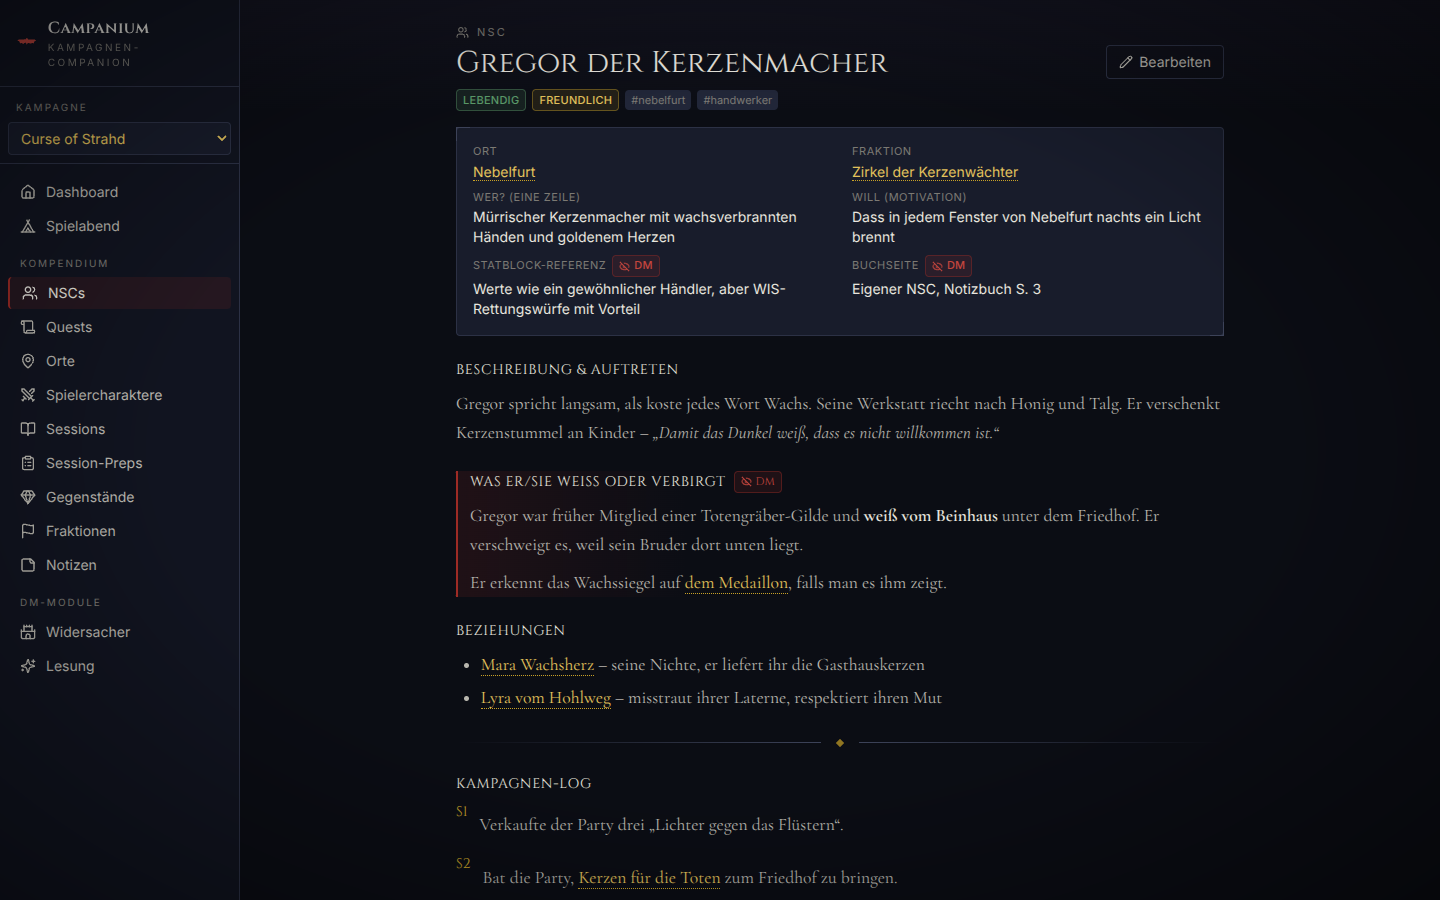
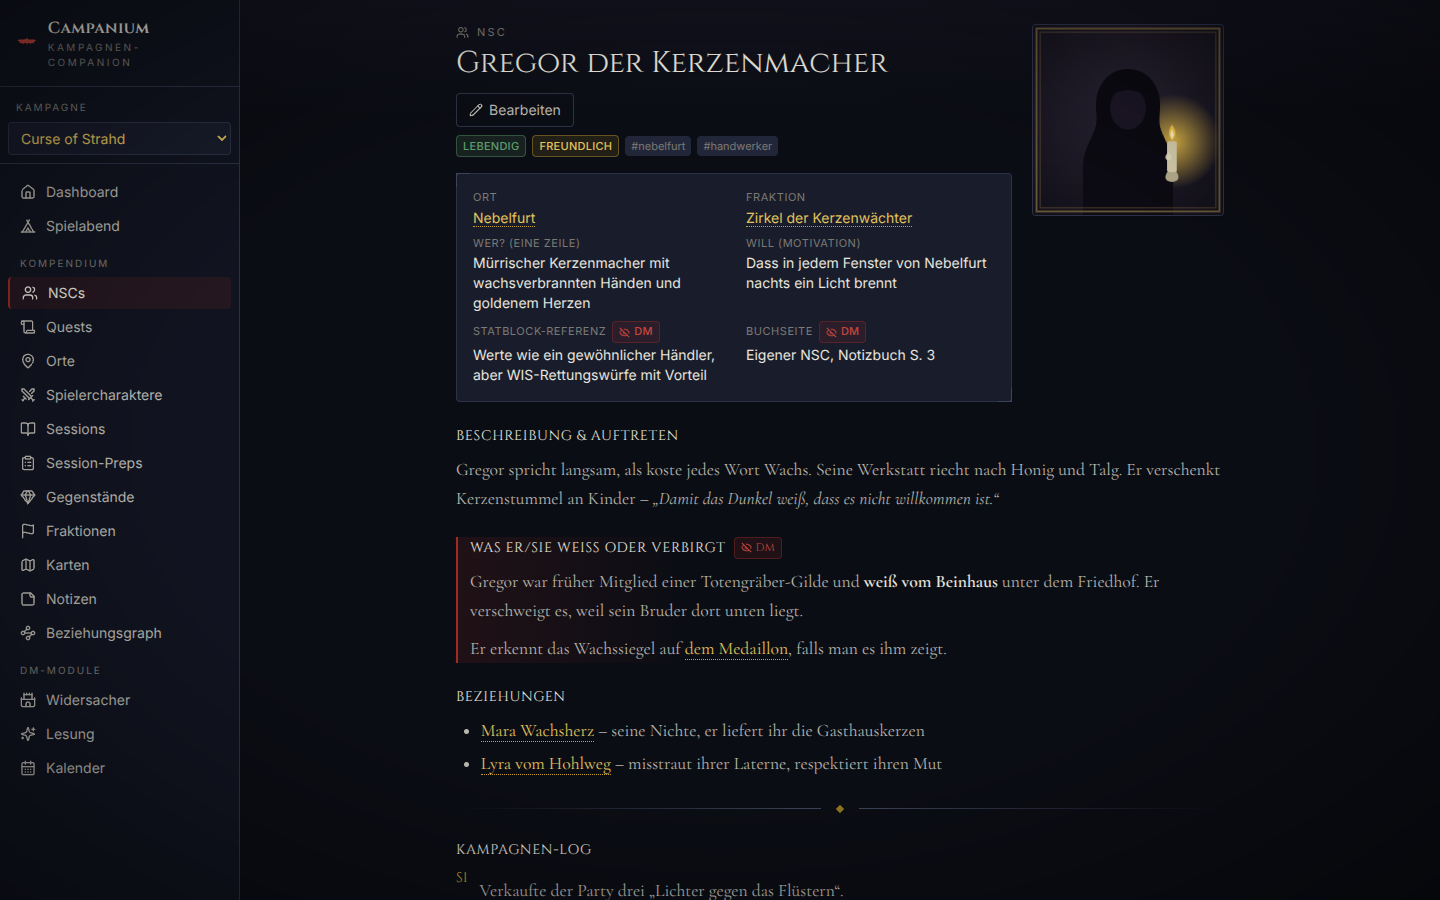
Demo-Daten, Screenshots und Doku für die neuen Module
- CoS-Demo: fiktive Übersichtskarte „Die Nebelmark“ (selbst erstellt)
  mit 3 Pins, Portrait für Gregor, Kalender mit 12 fiktiven Monaten
  und 2 Ereignissen (Jahr 735 BK)
- Spieler-Export der Demo neu gebaut: nur der Pin des besuchten Orts
  überlebt, Kalender/DM-Marker fehlen, 2 Bilder unter public/bilder/
- Neue Screenshots (Karte, Kalender, Graph, NSC mit Portrait),
  README-Features und Sichtbarkeitsregeln ergänzt, ARCHITECTURE
  um bilder/, kalender.json und die neuen Seiten erweitert

Changed region(s): [[0.3125, 0.0311, 0.875, 0.9022], [0.3125, 0.9022, 0.625, 1.0], [0.0, 0.6222, 0.125, 0.8711]]

diff --git a/client/src/seiten/KalenderSeite.tsx b/client/src/seiten/KalenderSeite.tsx
@@ -314,7 +314,7 @@ function TagesPanel({
       <div className="flex flex-wrap items-center gap-2">
         <input
           className="min-w-40 flex-1 rounded border border-rand bg-flaeche-3 px-2 py-1.5 text-sm"
-          placeholder="Neues Ereignis, z. B. „Fest des heiligen Andral“"
+          placeholder="Neues Ereignis, z. B. „Kerzenfest in Nebelfurt“"
           value={titel}
           onChange={(e) => setTitel(e.target.value)}
           onKeyDown={(e) => e.key === 'Enter' && hinzufuegen()}

diff --git a/README.md b/README.md
@@ -14,8 +14,13 @@ It ships with a fully fleshed-out (and entirely fictional) **Curse of Strahd** d
 </p>
 
 <p align="center">
-  <img src="docs/screenshots/nsc-detail.png" alt="NSC-Detailseite mit DM-Abschnitten und Backlinks" width="49%" />
-  <img src="docs/screenshots/kampagne-wechsel.png" alt="Zweite Kampagne nach dem Umschalten" width="49%" />
+  <img src="docs/screenshots/nsc-detail.png" alt="NSC-Detailseite mit Portrait, DM-Abschnitten und Backlinks" width="49%" />
+  <img src="docs/screenshots/karte-pins.png" alt="Interaktive Karte mit Pins auf Orte" width="49%" />
+</p>
+
+<p align="center">
+  <img src="docs/screenshots/kalender.png" alt="In-Game-Kalender mit Ereignissen" width="49%" />
+  <img src="docs/screenshots/graph.png" alt="Beziehungsgraph der Kampagne" width="49%" />
 </p>
 
 _Screenshots show the two fictional demo campaigns from `data.example/` (DM mode, dark theme)._
@@ -34,7 +39,11 @@ The tool runs in two modes:
 ### Features
 
 - **Multiple campaigns** — each campaign is its own folder under `data/`; switch between them from the sidebar, create new ones in-app. Wikilinks, search and backlinks are always scoped to the active campaign.
-- **Entities with templates** — NPCs, quests, locations, player characters, sessions, session preps, items, factions and free-form reference notes, each with a sensible section structure and per-entity campaign log.
+- **Entities with templates** — NPCs, quests, locations, player characters, sessions, session preps, items, factions, maps and free-form reference notes, each with a sensible section structure and per-entity campaign log.
+- **Images & portraits** — attach an image to any entity (PNG/JPEG/WebP/GIF, stored as plain files inside your campaign folder): portraits on detail pages and list cards, artwork for locations and items.
+- **Interactive maps** — upload a map image and place pins that link to your locations; pin colours show visited/unvisited, clicking navigates to the place. The player export keeps only pins of visited locations.
+- **In-game calendar** — months with custom names and lengths per campaign (two presets included), a current date that rolls cleanly over month and year boundaries, and events that can link to any entity. DM-only by design.
+- **Relationship graph** — a force-directed view of how everything connects, fed by the same wikilinks and reference fields as the backlinks; filter by type, click a node to jump to its entity.
 - **Wikilinks & backlinks** — type `[[Name]]` (with autocomplete) in any Markdown field to link entities, Obsidian-style. Links render with hover previews; every detail page lists automatic backlinks (“Erwähnt in …”). Unresolved links offer one-click creation.
 - **Global search** — `Cmd/Ctrl+K` fuzzy palette over names, tags and full text, grouped by type, keyboard-first.
 - **Dashboard trackers** — party level, in-game day, an optional escalation tracker (freely named, with editable stage descriptions — “Strahd’s escalation” in the demo) and freely addable custom counters (“Ireena’s bites 1/3”), all editable in place.
@@ -105,10 +114,13 @@ This:
 - locations only if `besucht` (visited) is true;
 - NPCs only if the party has demonstrably met them: status ≠ `unbekannt` **and** at least one campaign-log entry;
 - items only if `gefunden` (found) is true;
+- map pins only if their linked location is exported; free markers and DM pin labels are stripped;
+- images are copied only for exported entities (the target folder is wiped first, so no stale files leak);
 - per entity, only explicitly whitelisted fields are copied — new fields are DM-only by default;
-- references to non-exported entities are nulled so no IDs leak names.
+- references to non-exported entities are nulled so no IDs leak names;
+- the calendar (DM planning) is never exported.
 
-**Deploying to Pages:** commit the (spoiler-free) `client/public/player-data.json`, push, then manually trigger the **“Spieler-Build auf GitHub Pages”** workflow (`workflow_dispatch`) — so _you_ decide when content goes public. The workflow rebuilds the static app from the committed JSON and publishes it. Test locally with `npx vite preview --outDir dist-player` inside `client/`.
+**Deploying to Pages:** commit the (spoiler-free) `client/public/player-data.json` and `client/public/bilder/`, push, then manually trigger the **“Spieler-Build auf GitHub Pages”** workflow (`workflow_dispatch`) — so _you_ decide when content goes public. The workflow rebuilds the static app from the committed JSON and publishes it. Test locally with `npx vite preview --outDir dist-player` inside `client/`.
 
 ## Project layout
 
@@ -122,7 +134,8 @@ data/     YOUR campaigns – gitignored
   └─ <campaign-id>/
        kampagne.json           campaign manifest (name, tagline)
        kampagnenstand.json     dashboard trackers
-       widersacher-tracker.json / lesung.json   DM special modules
+       widersacher-tracker.json / lesung.json / kalender.json   DM special modules
+       bilder/                 uploaded images (portraits, map art)
        nsc/ quest/ ort/ …      one JSON file per entity
 ```
 

diff --git a/ARCHITECTURE.md b/ARCHITECTURE.md
@@ -50,6 +50,7 @@ shared/src/
   wikilink.ts      [[Wikilink]]-Parser (+ Tests)
   fuzzy.ts         Fuzzy-Suche für Palette & Autocomplete (+ Tests)
   slug.ts          sprechende IDs/Dateinamen (+ Tests)
+  kalender.ts      Kalender-Arithmetik (Tag vor/zurück, Formatierung) (+ Tests)
   playerFilter.ts  Spoiler-Filter, WHITELIST-Prinzip (+ Tests)
 
 server/src/
@@ -70,7 +71,8 @@ client/src/
   komponenten/     Layout (inkl. Kampagnen-Umschalter), Markdown(+Wikilinks),
                    Editor, Suche, Badges, …
   seiten/          Dashboard, generische Liste/Detail/Formular, QuestBoard,
-                   SessionTimeline, Spielabend, Widersacher, Lesung
+                   SessionTimeline, Spielabend, Widersacher, Lesung,
+                   KarteSeite (Pin-Overlay), KalenderSeite, GraphSeite
   styles/index.css Design-Tokens (CSS-Variablen) + Themes + Tailwind
 
 scripts/
@@ -86,7 +88,10 @@ scripts/
   des Namens (Kollisionen bekommen `-2`, `-3`, …). Menschenlesbar,
   git-versionierbar.
 - Singletons pro Kampagne: `kampagnenstand.json`,
-  `widersacher-tracker.json`, `lesung.json`.
+  `widersacher-tracker.json`, `lesung.json`, `kalender.json`.
+- `data/<kampagne>/bilder/` – hochgeladene Bilder (Portraits,
+  Kartengrafiken) als normale Dateien; Entitäten referenzieren sie nur
+  per Dateiname im Basisfeld `bild`.
 - Jede Schreiboperation validiert die API gegen die Zod-Schemas; ungültige
   Daten werden mit HTTP 400 abgewiesen und erreichen die Platte nie.
 
@@ -102,6 +107,8 @@ konfigurierbar – die Curse-of-Strahd-Demo zeigt die Belegung:
 | Eskalations-Tracker | optional, Titel + Stufen editierbar | „Strahds Eskalation“, 5 Stufen |
 | Custom-Tracker      | beliebige Zähler (`aktuell`/`max`)  | „Ireenas Bisse“ 1/3            |
 | Ort-Region          | Freitext, Filter aus Ist-Werten     | „Wildnis & Straßen“, …         |
+| Kalender            | Monate/Längen/Ära frei, Ereignisse  | 12 fiktive Monate, Jahr 735 BK |
+| Karten              | Grafik + Pins auf Orte              | „Die Nebelmark“, 3 Pins        |
 
 ## Spoiler-Trennung (wichtigste Invariante)
 
